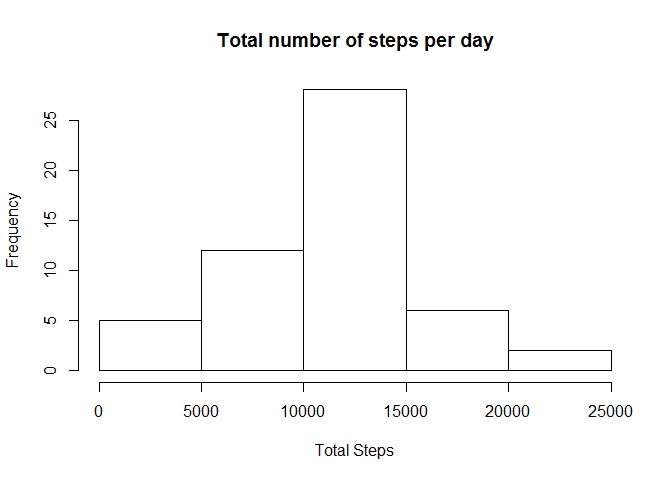
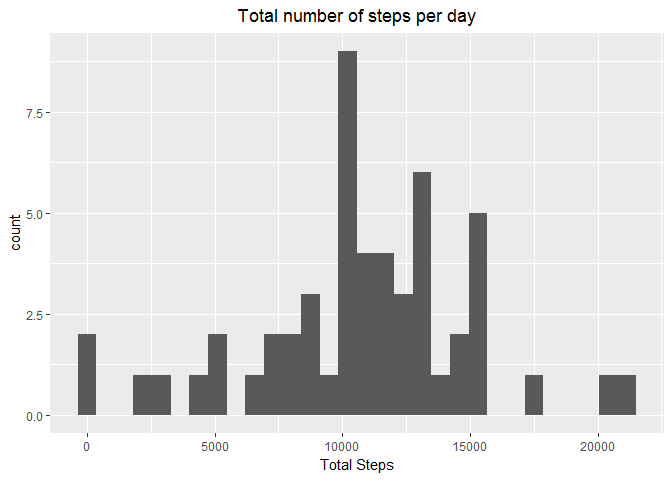
uploading files with revisions

diff --git a/PA1_template.html b/PA1_template.html
@@ -136,11 +136,20 @@ activity &lt;- activity_data[!is.na(activity_data$steps), ]</code></pre>
 activity_total &lt;- activity %&gt;% arrange(date, steps) %&gt;% group_by(date) %&gt;% summarise(sum = sum(steps))
 
 #plot for Total number of steps per day
-hist(activity_total$sum,main = &quot;Total number of steps per day&quot;, xlab = &quot;Total Steps&quot;)</code></pre>
[1 lines of base64/hex data omitted]
-<pre class="r"><code># Display Mean &amp; Median
+p &lt;- ggplot(activity_total, aes(sum)) + 
+     geom_histogram(bins = 30) +
+     ggtitle(&quot;Total number of steps per day&quot;) +
+     theme(plot.title = element_text(hjust = 0.5)) +
+     labs(x=&quot;Total Steps&quot;)
+
+# print plot
+p</code></pre>
[1 lines of base64/hex data omitted]
+<pre class="r"><code># print Mean &amp; Median on the console
+print(&quot;mean and median of the total number of steps taken per day&quot;)
 summary(activity_total$sum)[3:4]</code></pre>
-<pre><code>##   Median     Mean 
+<pre><code>## [1] &quot;mean and median of the total number of steps taken per day&quot;
+##   Median     Mean 
 ## 10765.00 10766.19</code></pre>
 </div>
 <div id="what-is-the-average-daily-activity-pattern" class="section level2">
@@ -148,21 +157,39 @@ summary(activity_total$sum)[3:4]</code></pre>
 <pre class="r"><code># calculate average daily activity 
 activity_interval_mean &lt;- activity %&gt;% group_by(interval) %&gt;% summarise(steps = mean(steps))
 
-# plot daily activity pattern
-xyplot(steps~interval,
-        data = activity_interval_mean,
-        type=&quot;l&quot;,
-        main=&quot;Average daily activity&quot;,
-        xlab=&quot;Interval&quot;,
-        ylab=&quot;average dialy activity&quot;,
-        layout = c(1,1))</code></pre>
[1 lines of base64/hex data omitted]
+# plot average daily activity
+p &lt;- ggplot(activity_interval_mean, aes(x=interval, y=steps)) + 
+     geom_line() +
+     ggtitle(&quot;Average daily activity&quot;) +
+     theme(plot.title = element_text(hjust = 0.5)) +
+     labs(x=&quot;Interval&quot;,y=&quot;Average daily activity&quot;)
+
+max_steps &lt;- summary(activity_interval_mean$steps)[6]
+max_activity&lt;- activity_interval_mean[activity_interval_mean$steps==max_steps, ]
+
+# plot maximum number of steps 
+p &lt;- p + geom_point(data = max_activity, aes(color=&quot;red&quot;,size=4)) +
+     geom_label_repel(aes(x=interval, y=steps,label= ifelse(steps == max_steps,as.character(interval),&quot;&quot;))) +
+     theme(legend.position = &quot;none&quot;)
+
+# print plot
+p</code></pre>
[1 lines of base64/hex data omitted]
+<pre class="r"><code># print interval for maximum number of steps on the console 
+print(paste0(&quot;maximum number of steps at interval: &quot;,max_activity$interval))</code></pre>
+<pre><code>## [1] &quot;maximum number of steps at interval: 835&quot;</code></pre>
 </div>
 <div id="imputing-missing-values" class="section level2">
 <h2>Imputing missing values</h2>
+<p>Strategy followed to fill missing values is by calculating the mean number of steps calcuated for 5 minute interval</p>
 <pre class="r"><code># Process missing values by replacing NA's with mean number of steps 
 activity_join &lt;- left_join(activity_data, activity_interval_mean, by=&quot;interval&quot;)
 na.steps &lt;- which(is.na(activity_join$steps.x))
+
+# print total number of missing values on the console
+print (paste0(&quot;Total number for missing values: &quot;, length(na.steps)))</code></pre>
+<pre><code>## [1] &quot;Total number for missing values: 2304&quot;</code></pre>
+<pre class="r"><code># replace missing values with mean number of steps per interval
 activity_join$steps.x[na.steps] &lt;- activity_join$steps.y[na.steps]
 activity_impute &lt;- activity_join[ ,c(&quot;steps.x&quot;,&quot;date&quot;,&quot;interval&quot;)]
 names(activity_impute)[1] &lt;- &quot;steps&quot; 
@@ -170,11 +197,23 @@ names(activity_impute)[1] &lt;- &quot;steps&quot;
 # calculate total number of steps taken per day 
 activity_imputed_total &lt;- activity_impute %&gt;% arrange(date, steps) %&gt;% group_by(date) %&gt;% summarise(sum = sum(steps))
 
-#plot for Total number of steps per day
-hist(activity_imputed_total$sum, main = &quot;Total number of steps per day (Imputed data)&quot;, xlab = &quot;Total Steps&quot;)</code></pre>
[1 lines of base64/hex data omitted]
-<pre class="r"><code># display mean and median steps
-summary(activity_imputed_total$sum)[3:4]</code></pre>
+#plot Total number of steps per day
+p &lt;- ggplot() + 
+     geom_histogram(data = activity_imputed_total, bins = 25, aes(sum, fill = &quot;r&quot;)) +
+     geom_histogram(data = activity_total,bins=25, aes(sum, fill = &quot;b&quot;)) +
+     ggtitle(&quot;Difference in total number of steps per day by Imputing&quot;) +
+     labs(x=&quot;Total Steps&quot;) +
+     theme(plot.title = element_text(hjust = 0.5)) +
+     scale_fill_manual(name = &quot;Group&quot;, labels = c(&quot;b&quot; = &quot;Before Imputing&quot;, &quot;r&quot; = &quot;After Imputing&quot;), 
+                        values = c(&quot;b&quot; = &quot;blue&quot;, &quot;r&quot; = &quot;red&quot;)) 
+     
+# print plot
+p</code></pre>
[1 lines of base64/hex data omitted]
+<pre class="r"><code># print mean &amp; median steps on the console
+print(&quot;mean and median of the total number of steps taken per day&quot;)</code></pre>
+<pre><code>## [1] &quot;mean and median of the total number of steps taken per day&quot;</code></pre>
+<pre class="r"><code>summary(activity_imputed_total$sum)[3:4]</code></pre>
 <pre><code>##   Median     Mean 
 ## 10766.19 10766.19</code></pre>
 </div>
@@ -185,7 +224,7 @@ weekdays &lt;- c(&quot;Monday&quot;,&quot;Tuesday&quot;,&quot;Wednesday&quot;,&q
 activity_impute$wday &lt;- factor(weekdays(as.Date(activity_impute$date)) %in% weekdays, levels=c(FALSE,TRUE), labels=c(&quot;Weekday&quot;,&quot;Weekend&quot;))
 # calculate mean activity 
 activity_impute_mean &lt;- activity_impute %&gt;% group_by(interval,wday) %&gt;% summarise(steps = mean(steps))
-#plot activity patterns for weekdays and weekends
+# plot activity patterns for weekdays and weekends
 xyplot(steps ~ interval | levels(wday), 
            data = activity_impute_mean,
            type = &quot;l&quot;,

diff --git a/PA1_template.md b/PA1_template.md
@@ -21,17 +21,26 @@ activity <- activity_data[!is.na(activity_data$steps), ]
 activity_total <- activity %>% arrange(date, steps) %>% group_by(date) %>% summarise(sum = sum(steps))
 
 #plot for Total number of steps per day
-hist(activity_total$sum,main = "Total number of steps per day", xlab = "Total Steps")
+p <- ggplot(activity_total, aes(sum)) + 
+     geom_histogram(bins = 30) +
+     ggtitle("Total number of steps per day") +
+     theme(plot.title = element_text(hjust = 0.5)) +
+     labs(x="Total Steps")
+
+# print plot
+p
 ```
 
 ![](PA1_template_files/figure-html/unnamed-chunk-2-1.png)<!-- -->
 
 ```r
-# Display Mean & Median
+# print Mean & Median on the console
+print("mean and median of the total number of steps taken per day")
 summary(activity_total$sum)[3:4]
 ```
 
 ```
+## [1] "mean and median of the total number of steps taken per day"
 ##   Median     Mean 
 ## 10765.00 10766.19
 ```
@@ -43,25 +52,57 @@ summary(activity_total$sum)[3:4]
 # calculate average daily activity 
 activity_interval_mean <- activity %>% group_by(interval) %>% summarise(steps = mean(steps))
 
-# plot daily activity pattern
-xyplot(steps~interval,
-        data = activity_interval_mean,
-        type="l",
-        main="Average daily activity",
-        xlab="Interval",
-        ylab="average dialy activity",
-        layout = c(1,1))
+# plot average daily activity
+p <- ggplot(activity_interval_mean, aes(x=interval, y=steps)) + 
+     geom_line() +
+     ggtitle("Average daily activity") +
+     theme(plot.title = element_text(hjust = 0.5)) +
+     labs(x="Interval",y="Average daily activity")
+
+max_steps <- summary(activity_interval_mean$steps)[6]
+max_activity<- activity_interval_mean[activity_interval_mean$steps==max_steps, ]
+
+# plot maximum number of steps 
+p <- p + geom_point(data = max_activity, aes(color="red",size=4)) +
+     geom_label_repel(aes(x=interval, y=steps,label= ifelse(steps == max_steps,as.character(interval),""))) +
+     theme(legend.position = "none")
+
+# print plot
+p
 ```
 
 ![](PA1_template_files/figure-html/unnamed-chunk-3-1.png)<!-- -->
 
+```r
+# print interval for maximum number of steps on the console 
+print(paste0("maximum number of steps at interval: ",max_activity$interval))
+```
+
+```
+## [1] "maximum number of steps at interval: 835"
+```
+
 
 ## Imputing missing values
+
+Strategy followed to fill missing values is by calculating the mean number of steps calcuated for 5 minute interval
+
 
 ```r
 # Process missing values by replacing NA's with mean number of steps 
 activity_join <- left_join(activity_data, activity_interval_mean, by="interval")
 na.steps <- which(is.na(activity_join$steps.x))
+
+# print total number of missing values on the console
+print (paste0("Total number for missing values: ", length(na.steps)))
+```
+
+```
+## [1] "Total number for missing values: 2304"
+```
+
+```r
+# replace missing values with mean number of steps per interval
 activity_join$steps.x[na.steps] <- activity_join$steps.y[na.steps]
 activity_impute <- activity_join[ ,c("steps.x","date","interval")]
 names(activity_impute)[1] <- "steps" 
@@ -69,14 +110,32 @@ names(activity_impute)[1] <- "steps"
 # calculate total number of steps taken per day 
 activity_imputed_total <- activity_impute %>% arrange(date, steps) %>% group_by(date) %>% summarise(sum = sum(steps))
 
-#plot for Total number of steps per day
-hist(activity_imputed_total$sum, main = "Total number of steps per day (Imputed data)", xlab = "Total Steps")
+#plot Total number of steps per day
+p <- ggplot() + 
+     geom_histogram(data = activity_imputed_total, bins = 25, aes(sum, fill = "r")) +
+     geom_histogram(data = activity_total,bins=25, aes(sum, fill = "b")) +
+     ggtitle("Difference in total number of steps per day by Imputing") +
+     labs(x="Total Steps") +
+     theme(plot.title = element_text(hjust = 0.5)) +
+     scale_fill_manual(name = "Group", labels = c("b" = "Before Imputing", "r" = "After Imputing"), 
+                        values = c("b" = "blue", "r" = "red")) 
+     
+# print plot
+p
 ```
 
 ![](PA1_template_files/figure-html/unnamed-chunk-4-1.png)<!-- -->
 
 ```r
-# display mean and median steps
+# print mean & median steps on the console
+print("mean and median of the total number of steps taken per day")
+```
+
+```
+## [1] "mean and median of the total number of steps taken per day"
+```
+
+```r
 summary(activity_imputed_total$sum)[3:4]
 ```
 
@@ -95,7 +154,7 @@ weekdays <- c("Monday","Tuesday","Wednesday","Thursday","Friday")
 activity_impute$wday <- factor(weekdays(as.Date(activity_impute$date)) %in% weekdays, levels=c(FALSE,TRUE), labels=c("Weekday","Weekend"))
 # calculate mean activity 
 activity_impute_mean <- activity_impute %>% group_by(interval,wday) %>% summarise(steps = mean(steps))
-#plot activity patterns for weekdays and weekends
+# plot activity patterns for weekdays and weekends
 xyplot(steps ~ interval | levels(wday), 
            data = activity_impute_mean,
            type = "l",
